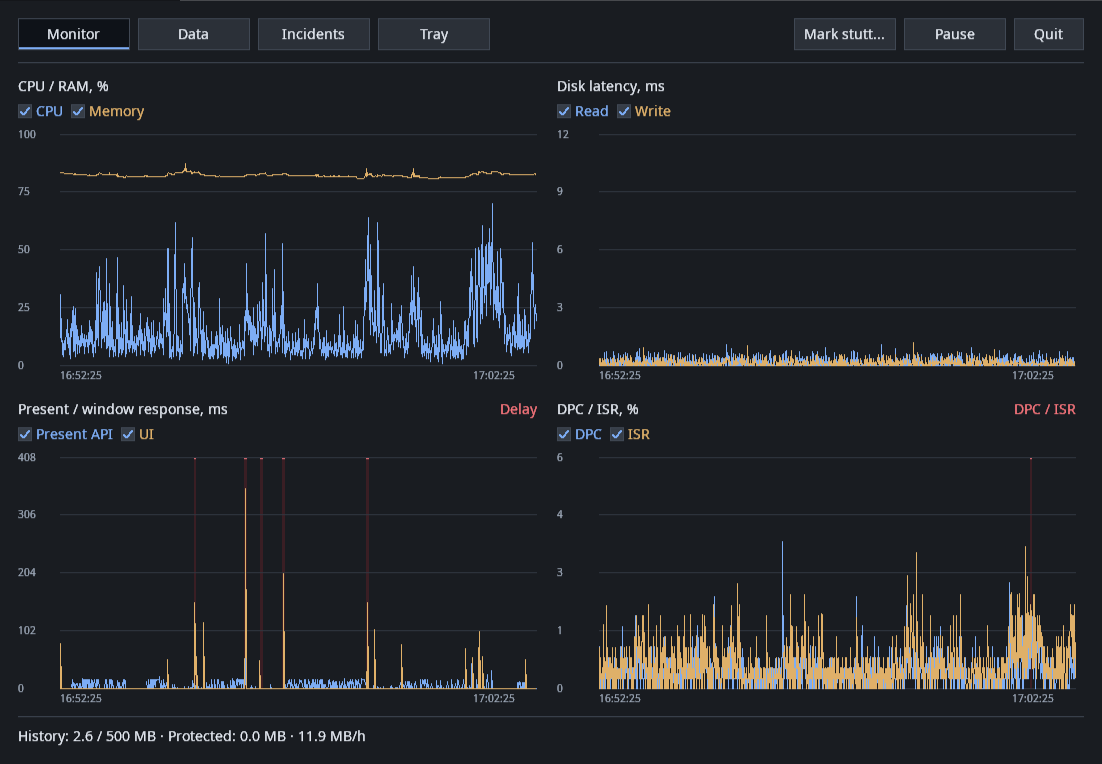
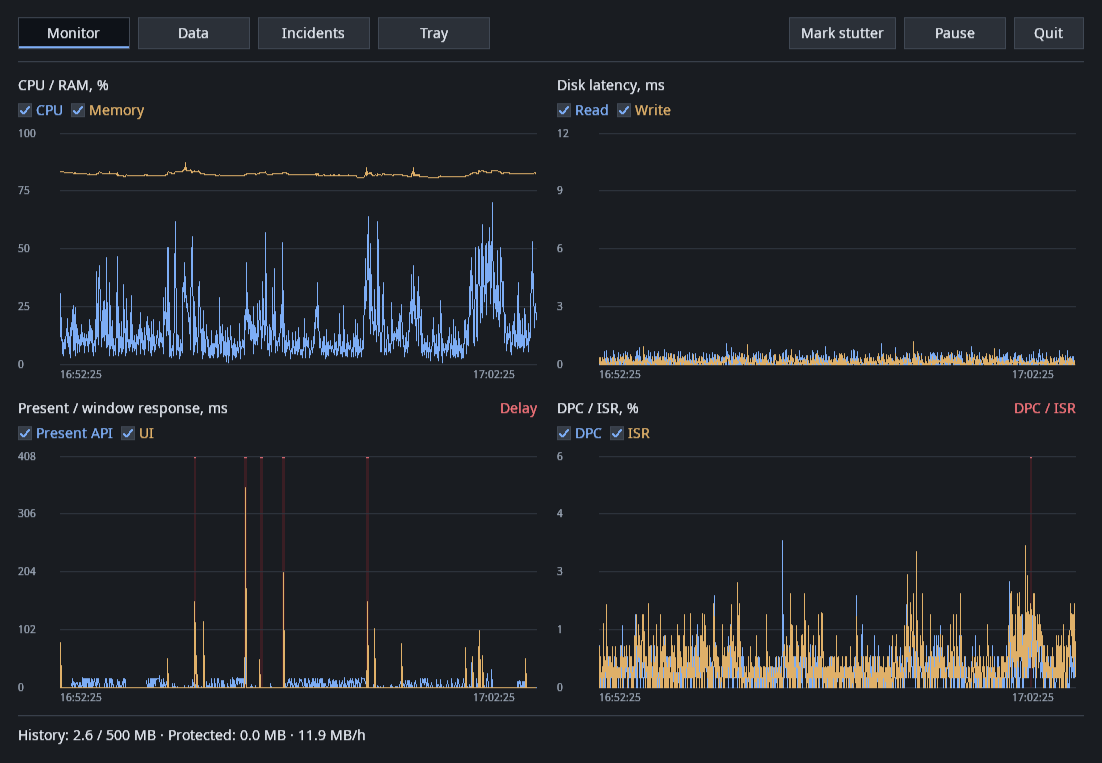
Unify README screenshots on Windows and trim the remaining frame edge

diff --git a/docs/LINUX.md b/docs/LINUX.md
@@ -2,6 +2,8 @@
 
 The v0.2 source contains a Linux desktop application and a separate background recorder. Packaged downloads will be attached to the v0.2 release after validation. Supported architecture: x86_64, glibc 2.35 or later. Both X11 and Wayland are supported.
 
+![Monitor](https://raw.githubusercontent.com/flochiii/stutter-watch/main/docs/images/linux-monitor.png)
+
 ## Install
 
 - Debian/Ubuntu: `sudo apt install ./stutter-watch_0.2.0_amd64.deb`
@@ -15,6 +17,8 @@ Configuration: `$XDG_CONFIG_HOME/stutter-watch/config.toml` (default `~/.config/
 ## Shared features and platform sources
 
 Windows and Linux share protected bookmarks, compressed history, configurable collection, automatic annotations, reports, ten languages, and local MangoHud CSV import. On either platform, choose **Import MangoHud CSV** on Incidents or run `stutter-watch --config PATH import-mangohud finished.csv`. MangoHud logging is configured by the user. Imported FPS and frame time use a relative timeline; they are not silently correlated with system timestamps.
+
+![Collection settings](https://raw.githubusercontent.com/flochiii/stutter-watch/main/docs/images/linux-data.png)
 
 Linux reads CPU, memory, disks, processes and pressure stalls from procfs. GPU coverage depends on readable DRM fdinfo/sysfs, permissions and driver support. Sleeping or unconfirmed GPUs are not queried for detailed sensors. Missing measurements remain unavailable. PSI identifies time waiting for resources; high CPU utilization alone does not prove a stutter.
 

diff --git a/README.md b/README.md
@@ -27,7 +27,7 @@ Stutter Watch records system activity in the background and saves the context ar
 - Background recording, tray controls and a global bookmark shortcut.
 - Ten interface languages.
 
-![Settings](docs/images/linux-data.png)
+![Settings](docs/images/windows-data.png)
 
 ## Use
 
